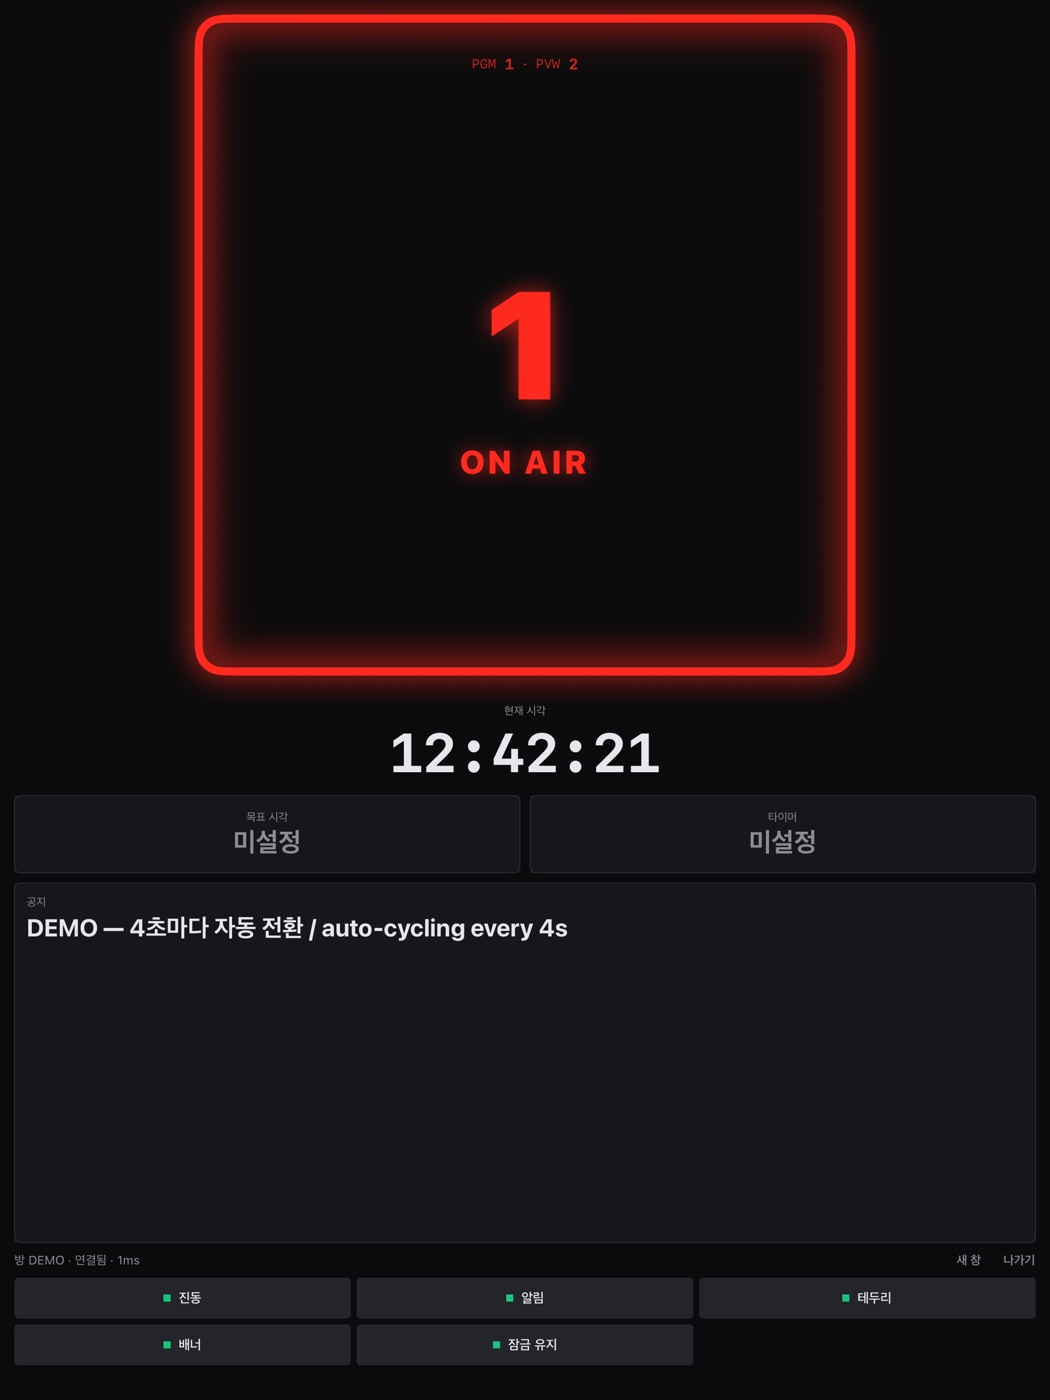
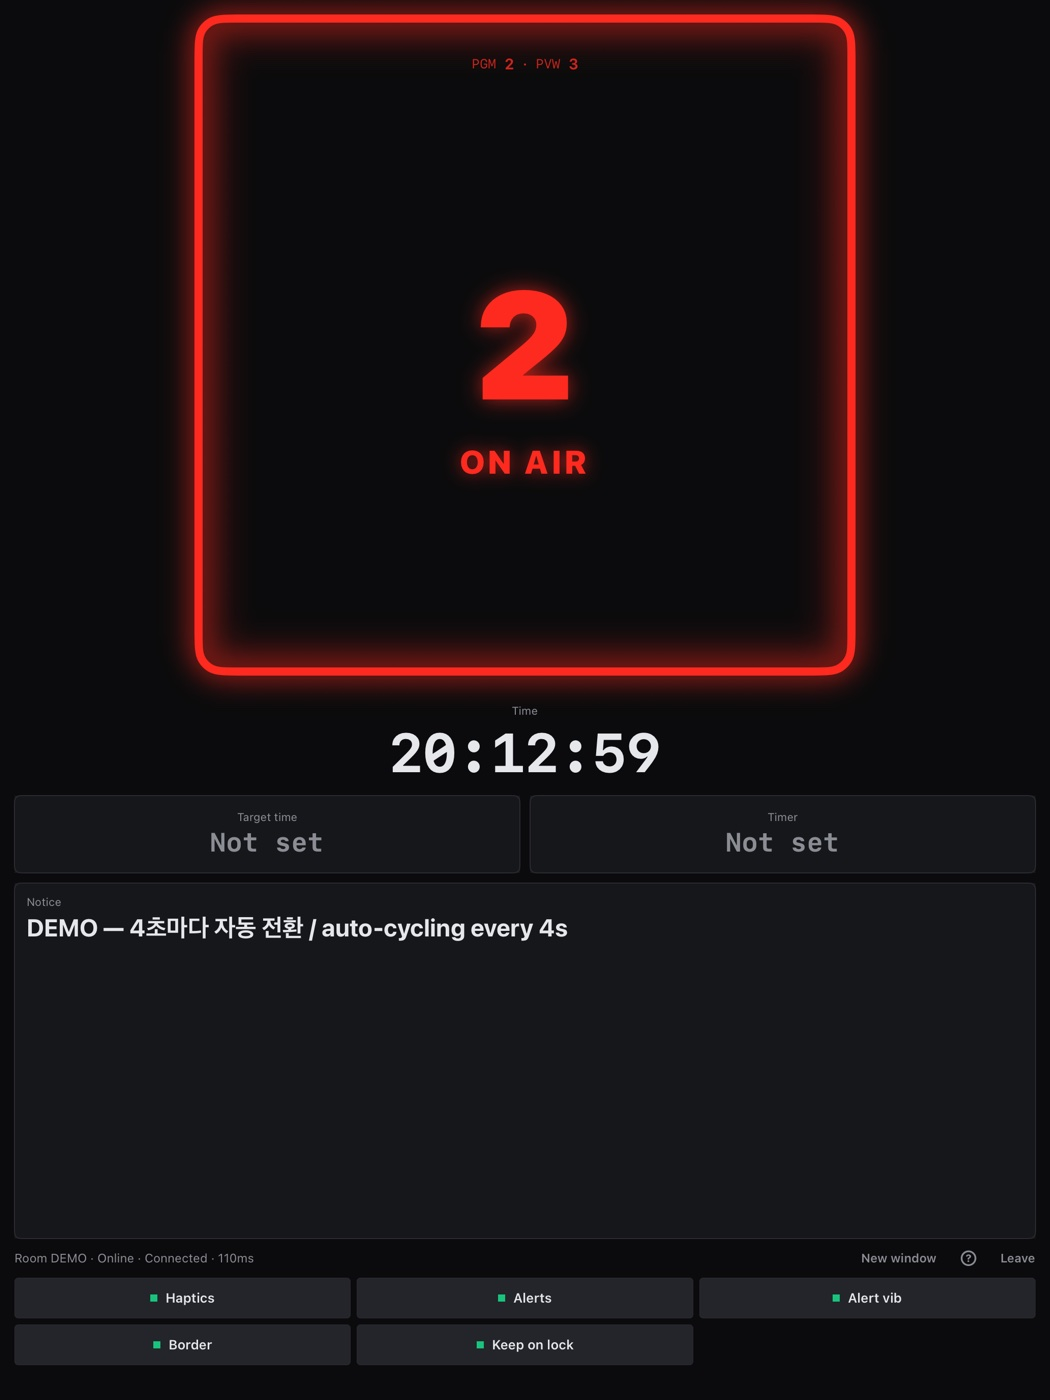
Flare Tally 제품 페이지: 앱·호스트 화면을 영문 UI 캡처로 교체(iPhone 5장·iPad 2장·호스트 4장)

diff --git a/product-flare-tally.html b/product-flare-tally.html
@@ -153,7 +153,7 @@ footer{background:var(--navy-deep);color:#8FA5C2;padding:34px 0;font-size:13px}f
         <div class="dev ph"><img src="/assets/flare/iphone-01_onair.jpg" alt="Flare Tally iPhone 앱 — CAM 1 ON AIR 화면" loading="lazy"></div>
         <div class="dev pad"><img src="/assets/flare/ipad-04_border.jpg" alt="Flare Tally iPad 앱 — 테두리 모드 ON AIR" loading="lazy"></div>
       </div>
-      <div class="devcap">실제 앱 화면 — iPhone ON AIR(왼쪽) · iPad 테두리 모드(오른쪽)<br>PGM/PVW 번호, 현재 시각, 공지, 타이머를 모든 카메라 폰에 동시에</div>
+      <div class="devcap">실제 앱 화면(영문 UI) — iPhone ON AIR(왼쪽) · iPad 테두리 모드(오른쪽)<br>PGM/PVW 번호, 현재 시각, 공지, 타이머를 모든 카메라 폰에 동시에</div>
     </div>
   </div>
 
